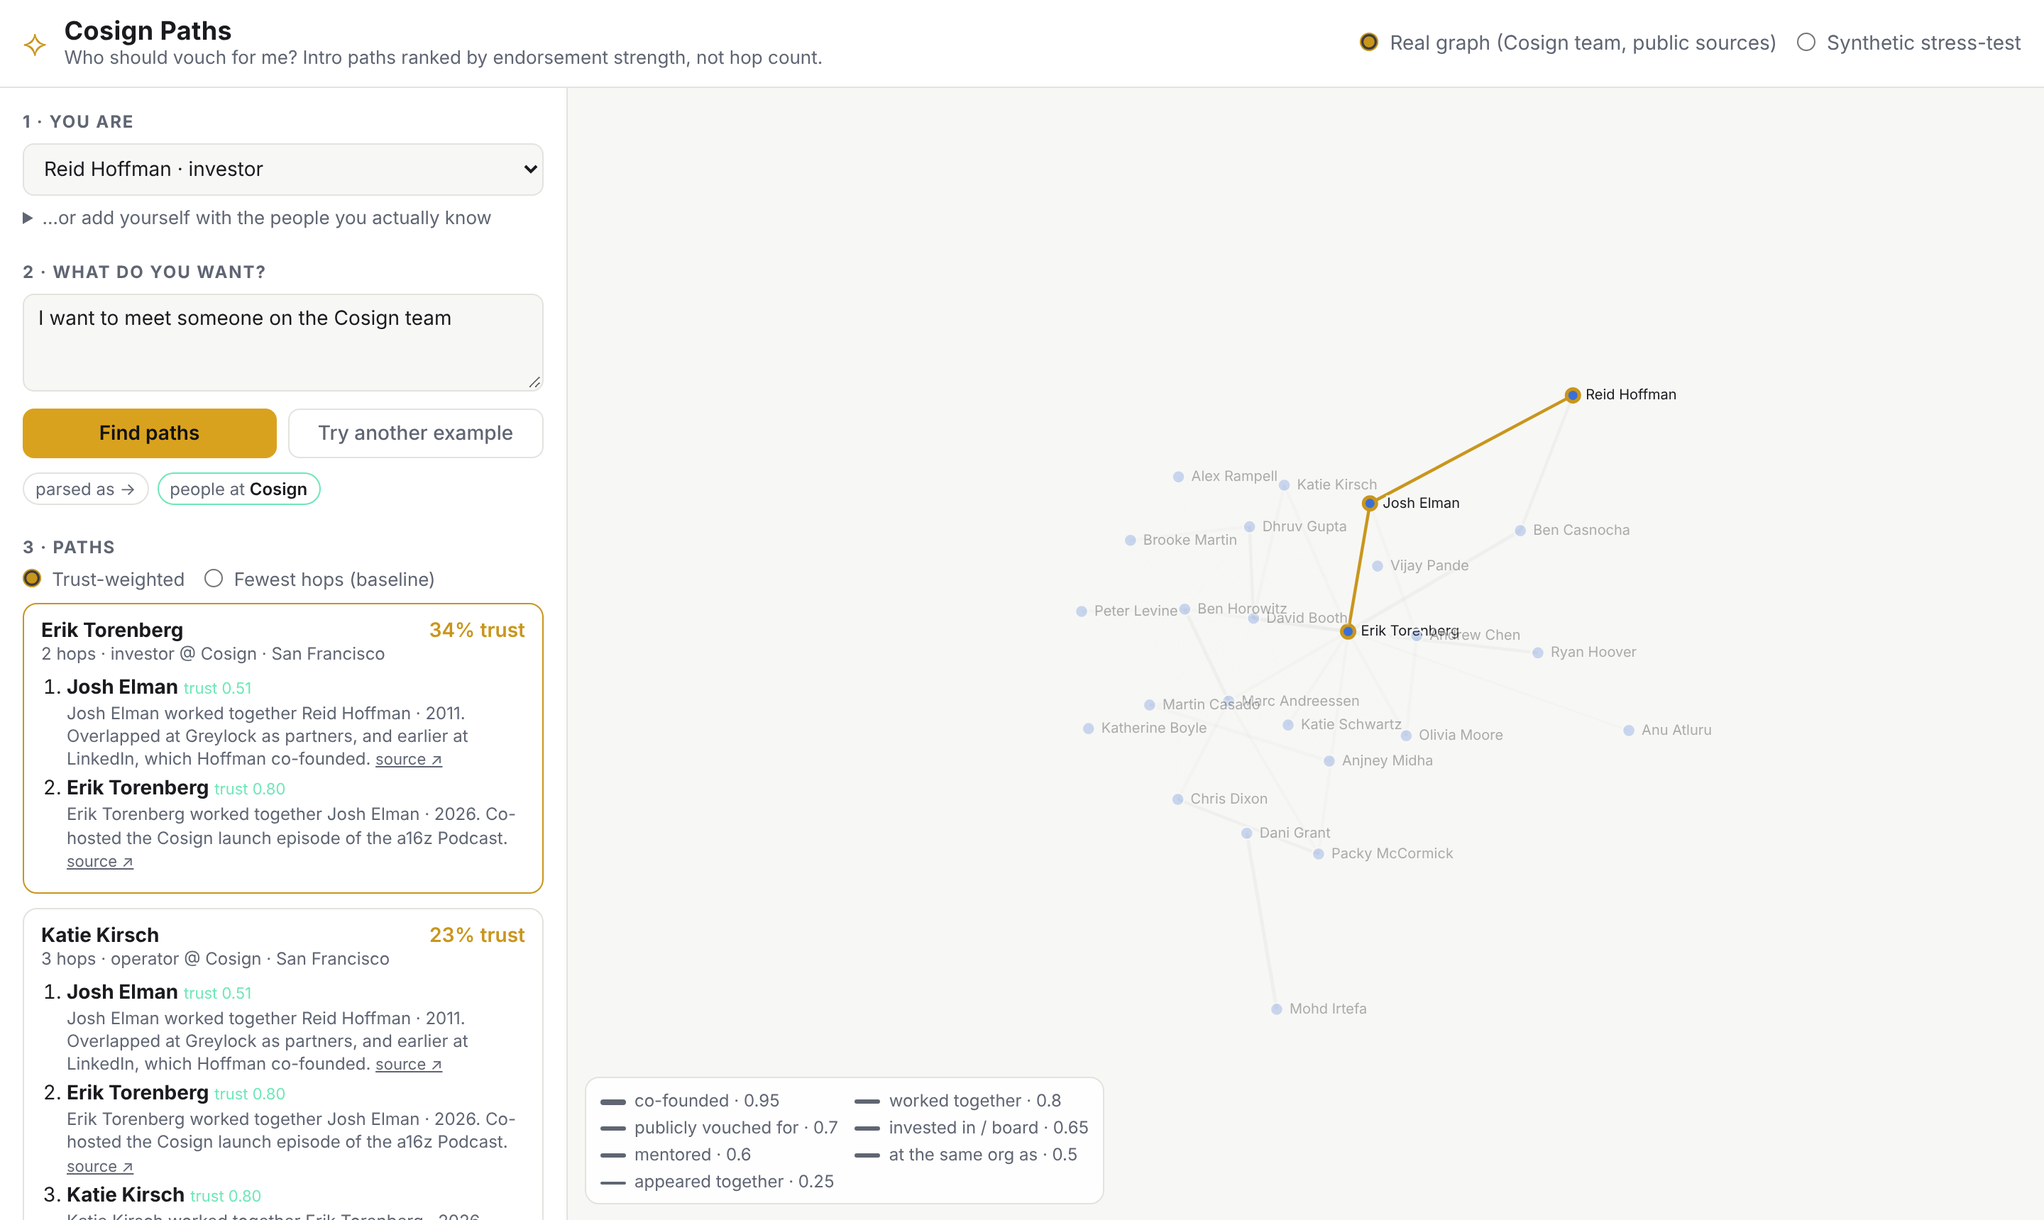
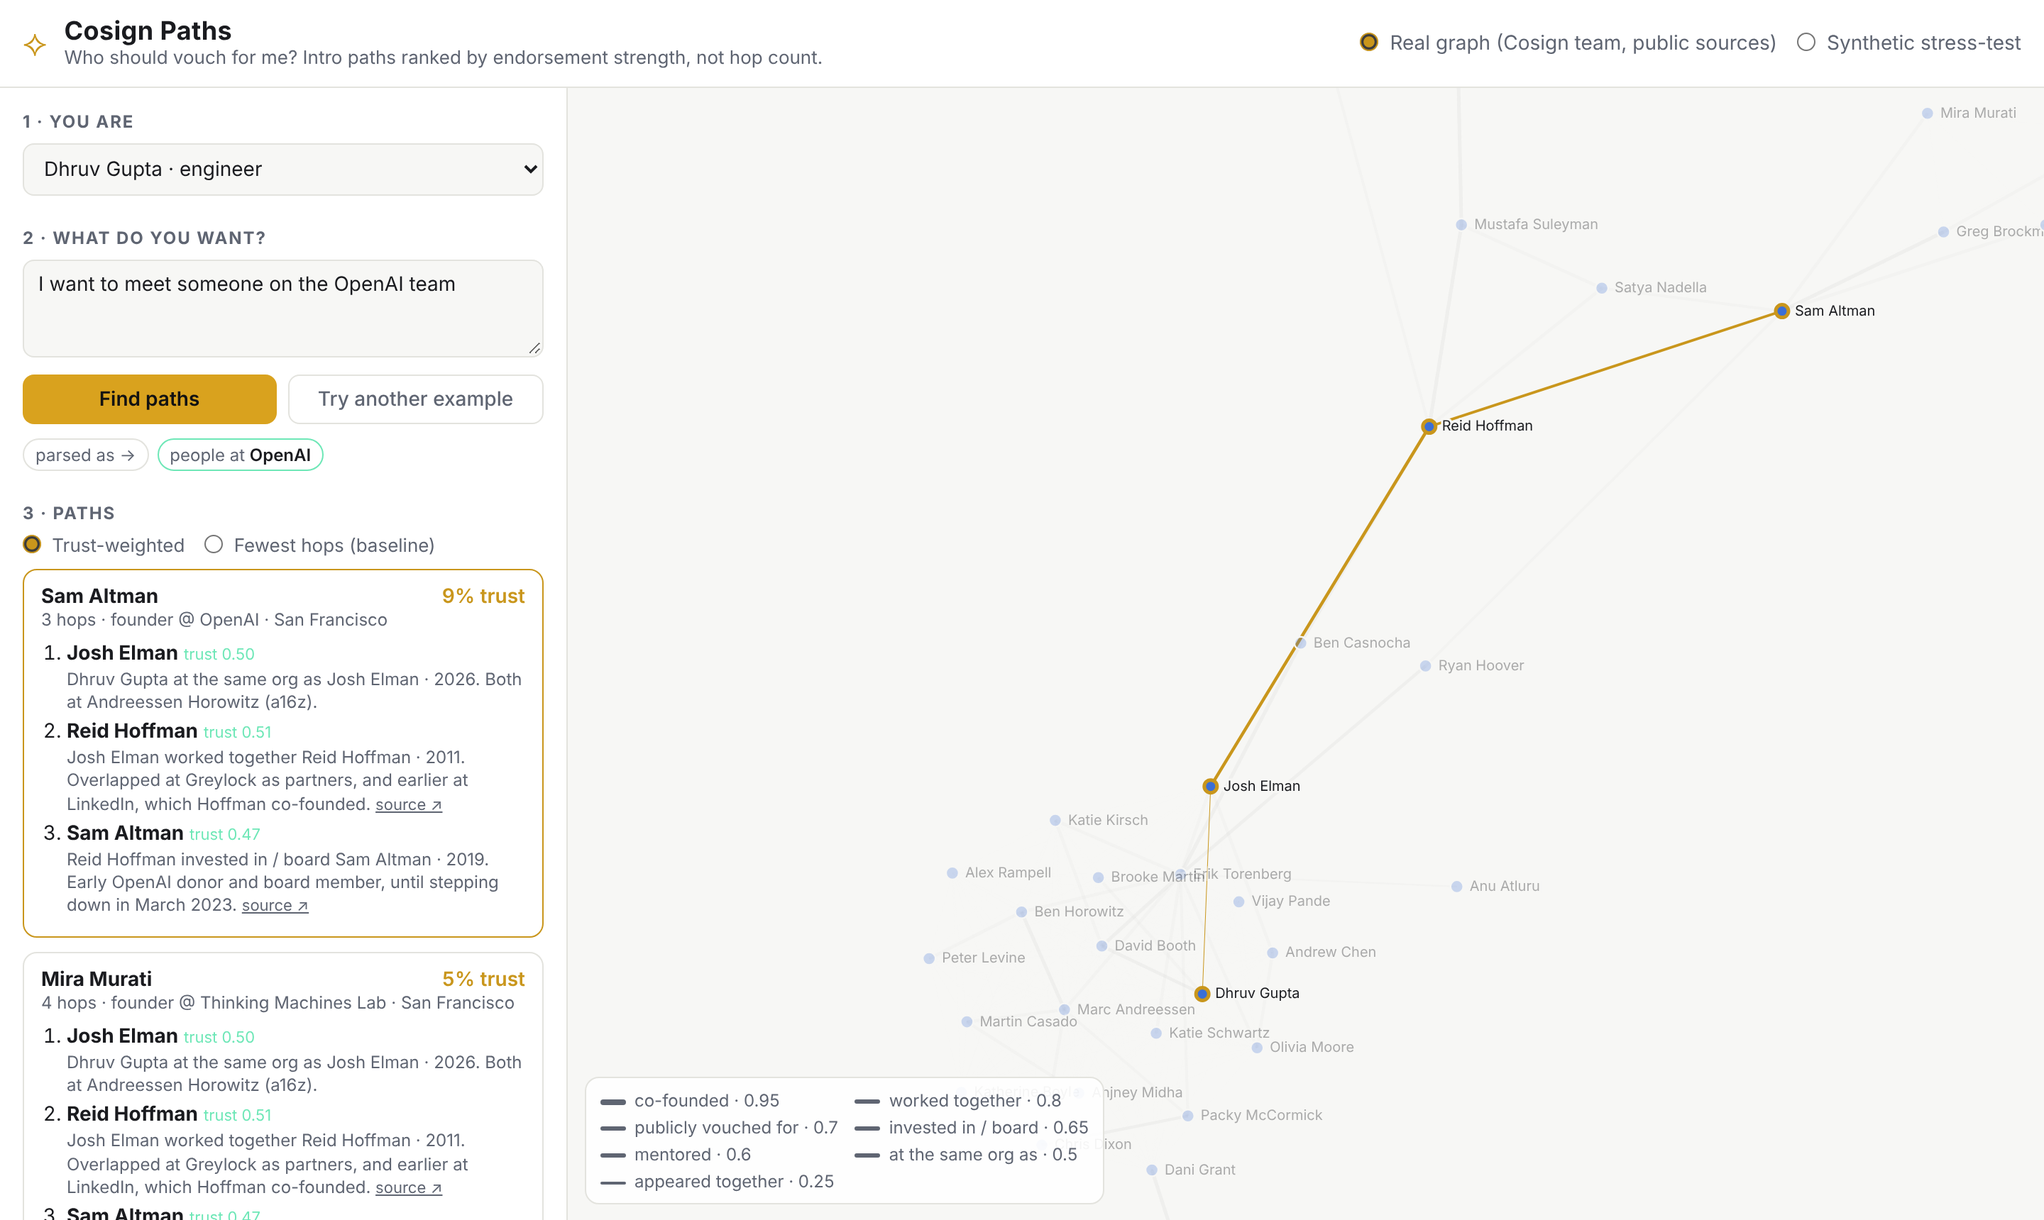
Add big-tech and frontier-lab executives to the real graph
12 new people (Altman, Brockman, Murati; Dario and Daniela Amodei;
Hassabis, Suleyman; Nadella, Pichai, Zuckerberg, Bezos, Jassy) under the
same rule as the rest of the dataset: only publicly documented
relationships, a source on every edge. Reid Hoffman is the documented
bridge to the existing cluster (Microsoft board since 2017, early OpenAI
donor/board member, 2004 Facebook angel, Inflection AI co-founded with
Suleyman). One deliberately weak sourced tie - Bezos, Zuckerberg and
Pichai seated together at the January 2025 inauguration - feeds the
fewest-hops baseline comparison. 37 people / 57 explicit edges, fully
connected after colleague injection.

'Someone on the OpenAI team', the query that originally exposed the
ranking bug, now returns real paths; added it and 'Who can introduce me
to Sam Altman?' to the examples, and updated the tour, README and
transcript counts. README screenshot regenerated on the new graph.

Claude-Session: https://claude.ai/code/session_01E15EANdhvJUMLgSyYHcaqr

diff --git a/data/public.js b/data/public.js
@@ -85,7 +85,35 @@ window.COSIGN_PUBLIC = {
   {"id":"packy_mccormick","kind":"person","name":"Packy McCormick","role":"investor","skills":["fundraising","growth","gtm"],"city":"New York","url":"https://www.notboring.co/p/a16z-the-power-brokers",
    "orgs":[{"name":"Not Boring","stage":"seed","url":"https://www.notboring.co/"}]},
   {"id":"anu_atluru","kind":"person","name":"Anu Atluru","role":"founder","skills":["growth","product design","biotech"],"city":"","url":"https://every.to/@anu.atluru",
-   "orgs":[{"name":"Clubhouse","stage":"growth","url":"https://every.to/p/what-i-learned-at-clubhouse"}]}
+   "orgs":[{"name":"Clubhouse","stage":"growth","url":"https://every.to/p/what-i-learned-at-clubhouse"}]},
+
+  // --- frontier labs ---
+  {"id":"sam_altman","kind":"person","name":"Sam Altman","role":"founder","skills":["fundraising","agents","ai infra"],"city":"San Francisco","url":"https://en.wikipedia.org/wiki/Sam_Altman",
+   "orgs":[{"name":"OpenAI","stage":"growth","url":"https://en.wikipedia.org/wiki/OpenAI"},{"name":"Y Combinator","stage":"growth","url":"https://en.wikipedia.org/wiki/Sam_Altman"}]},
+  {"id":"greg_brockman","kind":"person","name":"Greg Brockman","role":"engineer","skills":["ai infra","backend","devtools"],"city":"San Francisco","url":"https://en.wikipedia.org/wiki/Greg_Brockman",
+   "orgs":[{"name":"OpenAI","stage":"growth","url":"https://en.wikipedia.org/wiki/OpenAI"},{"name":"Stripe","stage":"growth","url":"https://en.wikipedia.org/wiki/Greg_Brockman"}]},
+  {"id":"mira_murati","kind":"person","name":"Mira Murati","role":"founder","skills":["ai infra","agents","product design"],"city":"San Francisco","url":"https://en.wikipedia.org/wiki/Mira_Murati",
+   "orgs":[{"name":"Thinking Machines Lab","stage":"seed","url":"https://en.wikipedia.org/wiki/Mira_Murati"},{"name":"OpenAI","stage":"growth","url":"https://en.wikipedia.org/wiki/Mira_Murati"}]},
+  {"id":"dario_amodei","kind":"person","name":"Dario Amodei","role":"founder","skills":["llm eval","ai infra","agents"],"city":"San Francisco","url":"https://en.wikipedia.org/wiki/Dario_Amodei",
+   "orgs":[{"name":"Anthropic","stage":"growth","url":"https://en.wikipedia.org/wiki/Anthropic"},{"name":"OpenAI","stage":"growth","url":"https://en.wikipedia.org/wiki/Dario_Amodei"}]},
+  {"id":"daniela_amodei","kind":"person","name":"Daniela Amodei","role":"founder","skills":["recruiting","gtm","growth"],"city":"San Francisco","url":"https://en.wikipedia.org/wiki/Daniela_Amodei",
+   "orgs":[{"name":"Anthropic","stage":"growth","url":"https://en.wikipedia.org/wiki/Anthropic"},{"name":"OpenAI","stage":"growth","url":"https://en.wikipedia.org/wiki/Daniela_Amodei"},{"name":"Stripe","stage":"growth","url":"https://en.wikipedia.org/wiki/Daniela_Amodei"}]},
+  {"id":"demis_hassabis","kind":"person","name":"Demis Hassabis","role":"researcher","skills":["agents","llm eval","biotech"],"city":"London","url":"https://en.wikipedia.org/wiki/Demis_Hassabis",
+   "orgs":[{"name":"Google DeepMind","stage":"growth","url":"https://en.wikipedia.org/wiki/Google_DeepMind"}]},
+  {"id":"mustafa_suleyman","kind":"person","name":"Mustafa Suleyman","role":"founder","skills":["agents","product design","gtm"],"city":"","url":"https://en.wikipedia.org/wiki/Mustafa_Suleyman",
+   "orgs":[{"name":"Microsoft","stage":"growth","url":"https://en.wikipedia.org/wiki/Mustafa_Suleyman"},{"name":"Inflection AI","stage":"growth","url":"https://en.wikipedia.org/wiki/Inflection_AI"},{"name":"Google DeepMind","stage":"growth","url":"https://en.wikipedia.org/wiki/Mustafa_Suleyman"}]},
+
+  // --- big tech ---
+  {"id":"satya_nadella","kind":"person","name":"Satya Nadella","role":"operator","skills":["gtm","ai infra","growth"],"city":"Seattle","url":"https://en.wikipedia.org/wiki/Satya_Nadella",
+   "orgs":[{"name":"Microsoft","stage":"growth","url":"https://en.wikipedia.org/wiki/Microsoft"}]},
+  {"id":"sundar_pichai","kind":"person","name":"Sundar Pichai","role":"operator","skills":["product design","growth","ai infra"],"city":"San Francisco","url":"https://en.wikipedia.org/wiki/Sundar_Pichai",
+   "orgs":[{"name":"Google","stage":"growth","url":"https://en.wikipedia.org/wiki/Google"}]},
+  {"id":"mark_zuckerberg","kind":"person","name":"Mark Zuckerberg","role":"founder","skills":["product design","growth","mobile"],"city":"San Francisco","url":"https://en.wikipedia.org/wiki/Mark_Zuckerberg",
+   "orgs":[{"name":"Meta (Facebook)","stage":"growth","url":"https://en.wikipedia.org/wiki/Meta_Platforms"}]},
+  {"id":"jeff_bezos","kind":"person","name":"Jeff Bezos","role":"founder","skills":["growth","gtm","robotics"],"city":"Miami","url":"https://en.wikipedia.org/wiki/Jeff_Bezos",
+   "orgs":[{"name":"Amazon","stage":"growth","url":"https://en.wikipedia.org/wiki/Amazon_(company)"}]},
+  {"id":"andy_jassy","kind":"person","name":"Andy Jassy","role":"operator","skills":["devtools","gtm","sales"],"city":"Seattle","url":"https://en.wikipedia.org/wiki/Andy_Jassy",
+   "orgs":[{"name":"Amazon","stage":"growth","url":"https://en.wikipedia.org/wiki/Amazon_(company)"}]}
  ],
  "edges": [
   // --- the Cosign team itself ---
@@ -130,6 +158,33 @@ window.COSIGN_PUBLIC = {
   {"source":"martin_casado","target":"anjney_midha","type":"worked_with","year":2022,"via":"Andreessen Horowitz (a16z)","reason":"Both general partners on a16z's infrastructure/AI practice; Midha founded Ubiquity6 before joining.","src":"https://a16z.com/author/anjney-midha/","verified":false},
   {"source":"andrew_chen","target":"olivia_moore","type":"worked_with","year":2024,"via":"Andreessen Horowitz (a16z)","reason":"Both on a16z's consumer team; Chen led rider growth at Uber before joining.","src":"https://a16z.com/author/olivia-moore/","verified":false},
   {"source":"andrew_chen","target":"josh_elman","type":"worked_with","year":2024,"via":"Andreessen Horowitz (a16z)","reason":"Both on a16z's consumer team.","src":"https://a16z.com/author/josh-elman/","verified":false},
-  {"source":"josh_elman","target":"reid_hoffman","type":"worked_with","year":2011,"via":"Greylock Partners","reason":"Overlapped at Greylock as partners, and earlier at LinkedIn, which Hoffman co-founded.","src":"https://a16z.com/author/josh-elman/","verified":false}
+  {"source":"josh_elman","target":"reid_hoffman","type":"worked_with","year":2011,"via":"Greylock Partners","reason":"Overlapped at Greylock as partners, and earlier at LinkedIn, which Hoffman co-founded.","src":"https://a16z.com/author/josh-elman/","verified":false},
+
+  // --- frontier labs ---
+  {"source":"sam_altman","target":"greg_brockman","type":"cofounded","year":2015,"via":"OpenAI","reason":"Co-founded OpenAI in 2015; Altman as CEO, Brockman as CTO and later president.","src":"https://en.wikipedia.org/wiki/OpenAI","verified":false},
+  {"source":"greg_brockman","target":"sam_altman","type":"cofounded","year":2015,"via":"OpenAI","reason":"Co-founded OpenAI in 2015.","src":"https://en.wikipedia.org/wiki/OpenAI","verified":false},
+  {"source":"mira_murati","target":"sam_altman","type":"worked_with","year":2022,"via":"OpenAI","reason":"CTO of OpenAI under Altman before leaving to found Thinking Machines Lab.","src":"https://en.wikipedia.org/wiki/Mira_Murati","verified":false},
+  {"source":"dario_amodei","target":"sam_altman","type":"worked_with","year":2019,"via":"OpenAI","reason":"VP of Research at OpenAI before leaving to co-found Anthropic in 2021.","src":"https://en.wikipedia.org/wiki/Dario_Amodei","verified":false},
+  {"source":"dario_amodei","target":"daniela_amodei","type":"cofounded","year":2021,"via":"Anthropic","reason":"Co-founded Anthropic; Dario as CEO, Daniela as president.","src":"https://en.wikipedia.org/wiki/Anthropic","verified":false},
+  {"source":"daniela_amodei","target":"dario_amodei","type":"cofounded","year":2021,"via":"Anthropic","reason":"Co-founded Anthropic together.","src":"https://en.wikipedia.org/wiki/Anthropic","verified":false},
+  {"source":"daniela_amodei","target":"greg_brockman","type":"worked_with","year":2014,"via":"Stripe","reason":"Both worked at Stripe before OpenAI.","src":"https://en.wikipedia.org/wiki/Daniela_Amodei","verified":false},
+  {"source":"demis_hassabis","target":"mustafa_suleyman","type":"cofounded","year":2010,"via":"Google DeepMind","reason":"Co-founded DeepMind in 2010, acquired by Google in 2014.","src":"https://en.wikipedia.org/wiki/Google_DeepMind","verified":false},
+  {"source":"mustafa_suleyman","target":"demis_hassabis","type":"cofounded","year":2010,"via":"Google DeepMind","reason":"Co-founded DeepMind together.","src":"https://en.wikipedia.org/wiki/Google_DeepMind","verified":false},
+  {"source":"mustafa_suleyman","target":"reid_hoffman","type":"cofounded","year":2022,"via":"Inflection AI","reason":"Co-founded Inflection AI with Reid Hoffman.","src":"https://en.wikipedia.org/wiki/Inflection_AI","verified":false},
+  {"source":"reid_hoffman","target":"mustafa_suleyman","type":"cofounded","year":2022,"via":"Inflection AI","reason":"Co-founded Inflection AI together.","src":"https://en.wikipedia.org/wiki/Inflection_AI","verified":false},
+  {"source":"reid_hoffman","target":"sam_altman","type":"invested_in","year":2019,"via":"OpenAI","reason":"Early OpenAI donor and board member, until stepping down in March 2023.","src":"https://en.wikipedia.org/wiki/Reid_Hoffman","verified":false},
+  {"source":"sam_altman","target":"ryan_hoover","type":"invested_in","year":2014,"via":"Y Combinator","reason":"Y Combinator backed Product Hunt; Altman led YC as president from 2014.","src":"https://en.wikipedia.org/wiki/Product_Hunt","verified":false},
+
+  // --- big tech ---
+  {"source":"reid_hoffman","target":"satya_nadella","type":"worked_with","year":2017,"via":"Microsoft","reason":"Has served on Microsoft's board of directors since 2017.","src":"https://en.wikipedia.org/wiki/Reid_Hoffman","verified":false},
+  {"source":"mustafa_suleyman","target":"satya_nadella","type":"worked_with","year":2024,"via":"Microsoft","reason":"CEO of Microsoft AI, reporting to Nadella, since 2024.","src":"https://en.wikipedia.org/wiki/Mustafa_Suleyman","verified":false},
+  {"source":"satya_nadella","target":"sam_altman","type":"invested_in","year":2023,"via":"Microsoft","reason":"Microsoft, under Nadella, invested more than $13B in OpenAI.","src":"https://en.wikipedia.org/wiki/OpenAI","verified":false},
+  {"source":"sundar_pichai","target":"demis_hassabis","type":"worked_with","year":2023,"via":"Google","reason":"Hassabis leads Google DeepMind within Pichai's Alphabet.","src":"https://en.wikipedia.org/wiki/Google_DeepMind","verified":false},
+  {"source":"reid_hoffman","target":"mark_zuckerberg","type":"invested_in","year":2004,"via":"Meta (Facebook)","reason":"Angel investor in Facebook's first funding round in 2004.","src":"https://en.wikipedia.org/wiki/Reid_Hoffman","verified":false},
+  {"source":"jeff_bezos","target":"andy_jassy","type":"worked_with","year":2021,"via":"Amazon","reason":"Jassy joined Amazon in 1997, founded AWS under Bezos, and succeeded him as CEO in 2021.","src":"https://en.wikipedia.org/wiki/Andy_Jassy","verified":false},
+  {"source":"andy_jassy","target":"jeff_bezos","type":"worked_with","year":2021,"via":"Amazon","reason":"Founded AWS under Bezos and succeeded him as Amazon CEO.","src":"https://en.wikipedia.org/wiki/Andy_Jassy","verified":false},
+  {"source":"jeff_bezos","target":"mark_zuckerberg","type":"met_at_event","year":2025,"reason":"Seated together at the January 2025 presidential inauguration.","src":"https://en.wikipedia.org/wiki/Second_inauguration_of_Donald_Trump","verified":false},
+  {"source":"jeff_bezos","target":"sundar_pichai","type":"met_at_event","year":2025,"reason":"Seated together at the January 2025 presidential inauguration.","src":"https://en.wikipedia.org/wiki/Second_inauguration_of_Donald_Trump","verified":false},
+  {"source":"mark_zuckerberg","target":"sundar_pichai","type":"met_at_event","year":2025,"reason":"Seated together at the January 2025 presidential inauguration.","src":"https://en.wikipedia.org/wiki/Second_inauguration_of_Donald_Trump","verified":false}
  ]
 };

diff --git a/app.js b/app.js
@@ -270,6 +270,8 @@
     ],
     public: [
       "I want to meet someone on the Cosign team",
+      "I want to meet someone on the OpenAI team",
+      "Who can introduce me to Sam Altman?",
       "Who can introduce me to an investor focused on AI infra?",
       "Who can introduce me to Packy McCormick?",
       "Looking for a founder who has built in recruiting",
@@ -452,7 +454,7 @@
   const TOUR = [
     {
       title: "The reputation graph, made routable",
-      body: "LinkedIn answers “who do you know?”. Cosign's premise is sharper: “who would vouch for you, and how strongly?”. This demo takes the public slice of Cosign's launch-day neighbourhood — 25 real people, every relationship cited — and turns that endorsement graph into a router for warm intros.",
+      body: "LinkedIn answers “who do you know?”. Cosign's premise is sharper: “who would vouch for you, and how strongly?”. This demo takes a public graph around Cosign's launch — 37 real people, from the Cosign team to the frontier labs and big tech, every relationship cited — and turns that endorsement graph into a router for warm intros.",
       apply() {},
     },
     {

diff --git a/README.md b/README.md
@@ -56,7 +56,7 @@ Walking a directed endorsement backwards (asking the person who *received* the c
 
 Two datasets, switchable in the header. The **real graph is the default**.
 
-**Real graph** (`data/public.js`, 25 people). A hand-curated graph of the actual Cosign team and its a16z neighbourhood, built only from public bios, posts, Wikipedia and press (including X posts and LinkedIn pages as surfaced by search engines — nothing scraped). It includes the people who publicly launched Cosign (Erik Torenberg, David Booth, Katie Kirsch, Dani Grant, Brooke Martin, Dhruv Gupta, Katie Schwartz) and their real prior relationships — On Deck (Torenberg × Booth), Turpentine (founded by Torenberg, acquired by a16z), Jam and Cloudflare (Grant × Irtefa), Village Global, Product Hunt, Not Boring (Packy McCormick, with his public Cosign list). Every edge cites the page it came from and carries `verified: false` until a human re-checks it. It is small on purpose: the point is paths that read naturally on relationships people recognise, not coverage.
+**Real graph** (`data/public.js`, 37 people). A hand-curated graph of the actual Cosign team and its wider neighbourhood, built only from public bios, posts, Wikipedia and press (including X posts and LinkedIn pages as surfaced by search engines — nothing scraped). It includes the people who publicly launched Cosign (Erik Torenberg, David Booth, Katie Kirsch, Dani Grant, Brooke Martin, Dhruv Gupta, Katie Schwartz) and their real prior relationships — On Deck (Torenberg × Booth), Turpentine (founded by Torenberg, acquired by a16z), Jam and Cloudflare (Grant × Irtefa), Village Global, Product Hunt, Not Boring (Packy McCormick, with his public Cosign list) — plus the frontier labs and big tech (OpenAI, Anthropic, Google DeepMind, Microsoft, Meta, Amazon), bridged to the a16z cluster through documented relationships like Reid Hoffman's Microsoft board seat, his early OpenAI backing, and Inflection AI (Hoffman × Suleyman). Every edge cites the page it came from and carries `verified: false` until a human re-checks it. It is small on purpose: the point is paths that read naturally on relationships people recognise, not coverage.
 
 **Synthetic stress-test** (`data/synthetic.js`, 100 people / ~630 explicit edges). Generated by `scripts/generate_synthetic.py`; useful for seeing the ranking behave on a denser graph. Every person, org and endorsement is invented; names come from a word list so nothing collides with a real public figure. Regenerate with a different seed or size:
 

diff --git a/docs/transcript.md b/docs/transcript.md
@@ -307,7 +307,29 @@ today. Drafted the public post and the DM; flagged that the post step is
 required ("everyone who posts something will be let into cosign"), and that
 a month had passed since Dhruv's post, so "quick" argues for shipping now.
 
-### Turns 11–12 — this file
+### Turn 11 — big tech and the frontier labs
+
+> **User:** Can we also add some executives from big tech companies (e.g.
+> Google, Meta, Amazon) and hot frontier labs (e.g. OpenAI, Anthropic) in
+> our graph data. That can enhance our diversity of demo queries
+
+**Claude:** Added 12 people (Altman, Brockman, Murati; the Amodeis;
+Hassabis, Suleyman; Nadella, Pichai, Zuckerberg, Bezos, Jassy) under the
+same rule as everyone else: only publicly documented relationships, a source
+on every edge. The design question was the **bridge** — a new cluster is
+useless if no real edges connect it to the existing graph — and Reid
+Hoffman turned out to be the documented hub: Microsoft board seat since
+2017, early OpenAI donor and board member until 2023, Facebook angel in
+2004, Inflection AI co-founded with Suleyman (who co-founded DeepMind with
+Hassabis and now runs Microsoft AI under Nadella). One deliberately weak
+edge went in for the baseline argument: Bezos, Zuckerberg and Pichai seated
+together at the January 2025 inauguration — a real, sourced
+"appeared together" tie that the fewest-hops baseline will happily route
+through. And the payoff query is the callback: **"someone on the OpenAI
+team"**, the exact query the user caught returning nonsense in Turn 2, now
+returns real paths.
+
+### Turns 12–13 — this file
 
 > **User (原文):** transcript你替我抓到不就行了 … 我是觉得这个transcript还有中文,而且比较简单,是不是不太好
 >
@@ -328,7 +350,7 @@ flow as everything above.
 - **Trust model & search**: `app.js` — edge trust = type prior × recency,
   Dijkstra on −log(trust), 0.85/hop discount, 0.8 reverse-endorsement
   penalty, symmetric types exempted.
-- **Real data**: `data/public.js` — 25 people, 34 explicit edges, a public
+- **Real data**: `data/public.js` — 37 people, 57 explicit edges, a public
   source URL on every edge; `verified: false` marks rows a human should
   re-check before relying on them.
 - **Synthetic generator**: `scripts/generate_synthetic.py`.
